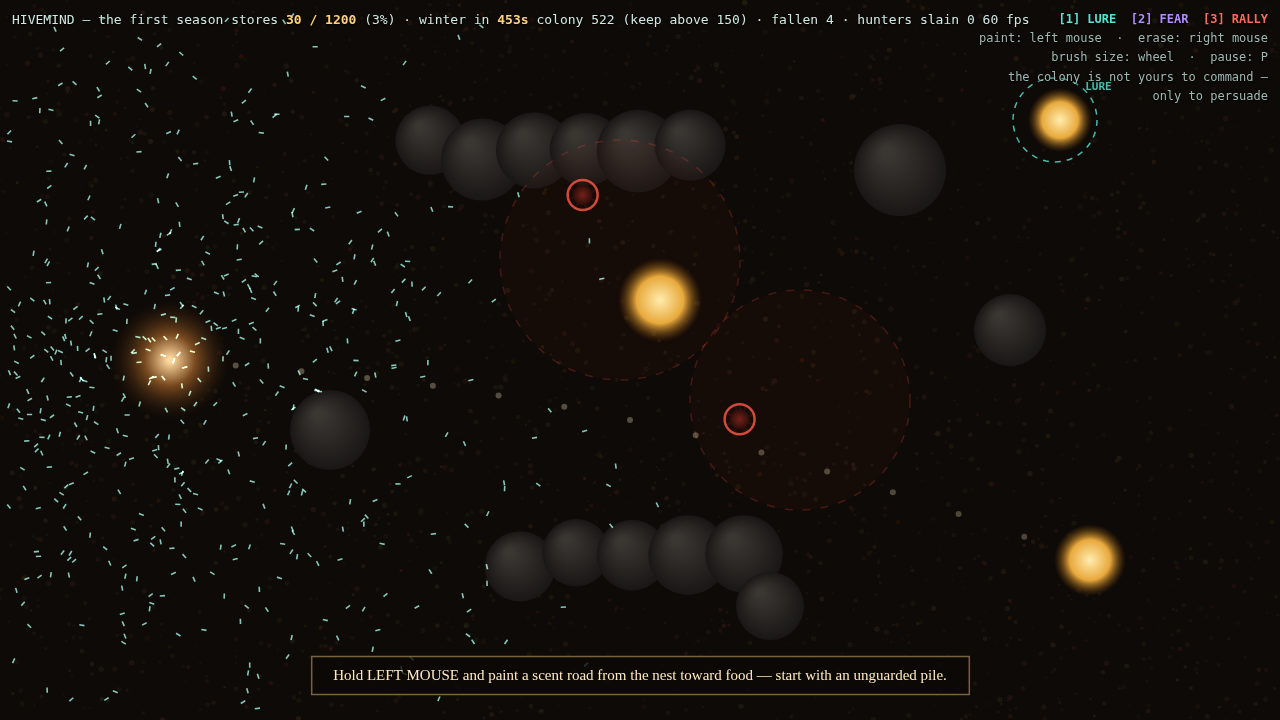
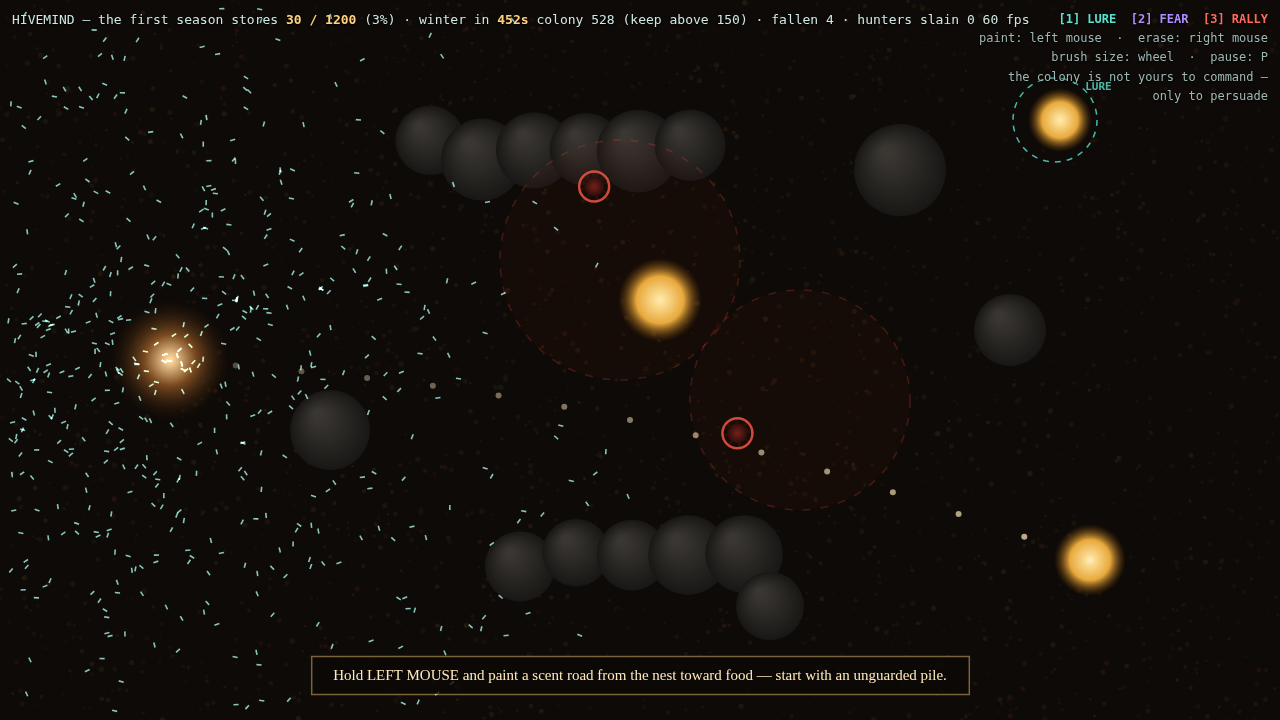
Stage 6 Loop 5b: procedural WebAudio (licence-clean, gated)
The audio half of the juice pass — 100% synthesized (no sample assets):
harvest tick, hunter-death crunch+drop, win/lose end sting. The AudioContext
is built ONLY on a real click gesture, so headless/bot runs stay silent and
untouched; audioTick only READS sim counters, and every call is wrapped so a
missing/suspended context can never break the loop. Verified: seed-7 commander
still WINS t=305 with no pageerrors; click test green; dist (55KB) wins from
file://. Unheard here (no audio device) — runs-clean is VERIFIED FACT,
pleasant is ASSUMPTION.

diff --git a/game/js/audio.js b/game/js/audio.js
@@ -1,0 +1,86 @@
+// Procedural audio — 100% synthesized (zero sample assets, so licence-clean).
+// Deliberately minimal and gated: the AudioContext is created ONLY on a real
+// user gesture (the click-to-begin), so headless/bot runs — which never click —
+// stay silent and unaffected, and the sim itself is never touched (this module
+// only READS sim counters each frame). All calls are wrapped so a missing or
+// suspended AudioContext can never break the game loop.
+export function makeAudio() {
+  return {
+    ctx: null, master: null, on: true,
+    seenKills: 0, seenBanked: 0, lastBlip: -1, over: false,
+  };
+}
+
+// Call from a genuine user-gesture handler (mousedown). Lazily builds the
+// context the first time; resumes it if the browser suspended it.
+export function audioResume(a) {
+  try {
+    if (!a.ctx) {
+      const AC = window.AudioContext || window.webkitAudioContext;
+      if (!AC) return;
+      a.ctx = new AC();
+      a.master = a.ctx.createGain();
+      a.master.gain.value = 0.5;
+      a.master.connect(a.ctx.destination);
+    }
+    if (a.ctx.state === 'suspended') a.ctx.resume();
+  } catch (e) { a.ctx = null; }
+}
+
+// one enveloped oscillator voice
+function voice(a, { type = 'sine', f0, f1, t = 0.12, gain = 0.2, delay = 0 }) {
+  const c = a.ctx, now = c.currentTime + delay;
+  const o = c.createOscillator(), g = c.createGain();
+  o.type = type;
+  o.frequency.setValueAtTime(f0, now);
+  if (f1 && f1 !== f0) o.frequency.exponentialRampToValueAtTime(Math.max(1, f1), now + t);
+  g.gain.setValueAtTime(0.0001, now);
+  g.gain.exponentialRampToValueAtTime(gain, now + 0.008);
+  g.gain.exponentialRampToValueAtTime(0.0001, now + t);
+  o.connect(g); g.connect(a.master);
+  o.start(now); o.stop(now + t + 0.02);
+}
+
+// short filtered-noise burst (used for the hunter-death crunch)
+function noise(a, { t = 0.18, gain = 0.25, cutoff = 900 }) {
+  const c = a.ctx, now = c.currentTime;
+  const n = Math.floor(c.sampleRate * t);
+  const buf = c.createBuffer(1, n, c.sampleRate);
+  const d = buf.getChannelData(0);
+  let s = 1234567;                       // deterministic PRNG (no Math.random)
+  for (let i = 0; i < n; i++) { s = (s * 16807) % 2147483647; d[i] = (s / 1073741823 - 1) * (1 - i / n); }
+  const src = c.createBufferSource(); src.buffer = buf;
+  const lp = c.createBiquadFilter(); lp.type = 'lowpass'; lp.frequency.value = cutoff;
+  const g = c.createGain(); g.gain.value = gain;
+  src.connect(lp); lp.connect(g); g.connect(a.master);
+  src.start(now);
+}
+
+// Called each frame with the current sim + scenario. Compares against what it
+// last saw and voices the deltas: harvest ticks, hunter deaths, win/lose sting.
+export function audioTick(a, sim, sc) {
+  if (!a.ctx || !a.on) return;
+  try {
+    // hunter slain — low crunch + a satisfied drop
+    if (sim.spidersKilled > a.seenKills) {
+      a.seenKills = sim.spidersKilled;
+      noise(a, { t: 0.2, gain: 0.3, cutoff: 1100 });
+      voice(a, { type: 'triangle', f0: 220, f1: 90, t: 0.22, gain: 0.22 });
+    }
+    // harvest — a soft high tick, throttled to every ~45 stores so it pulses
+    // with the economy rather than machine-gunning
+    if (sim.foodBanked - a.seenBanked >= 45) {
+      a.seenBanked = sim.foodBanked;
+      if (sim.time - a.lastBlip > 0.05) {
+        a.lastBlip = sim.time;
+        voice(a, { type: 'sine', f0: 880, f1: 1180, t: 0.07, gain: 0.10 });
+      }
+    }
+    // end sting — rising major triad on a win, falling on a loss (once)
+    if (sc.over && !a.over) {
+      a.over = true;
+      const notes = sc.won ? [523, 659, 784, 1047] : [440, 349, 262];
+      notes.forEach((f, i) => voice(a, { type: 'triangle', f0: f, t: 0.35, gain: 0.24, delay: i * 0.13 }));
+    }
+  } catch (e) { /* audio must never break the loop */ }
+}

diff --git a/game/js/main.js b/game/js/main.js
@@ -6,6 +6,7 @@ import { makeAutoPlayer } from './auto.js';
 import { SCENARIO, makeScenarioState, updateScenario } from './scenario.js';
 import { makeOnboarding, updateOnboarding, drawOnboarding } from './onboarding.js';
 import { nextCertifiedSeed } from './seeds.js';
+import { makeAudio, audioResume, audioTick } from './audio.js';
 
 const q = new URLSearchParams(location.search);
 const seed = parseInt(q.get('seed') || '7', 10);
@@ -21,6 +22,7 @@ const R = makeRenderer(canvas);
 const auto = autoName ? makeAutoPlayer(autoName) : null;
 const sc = makeScenarioState();
 const ob = makeOnboarding();
+const audio = makeAudio();
 
 const ui = { tool: 0, brush: 42, mx: 0, my: 0, painting: 0, showBrush: !auto, paused: false, started: !!(auto || fast) };
 const PLAYER_FIELDS = [F.LURE, F.FEAR, F.WAR];
@@ -32,6 +34,7 @@ function canvasPos(e) {
 }
 canvas.addEventListener('mousemove', (e) => { [ui.mx, ui.my] = canvasPos(e); });
 canvas.addEventListener('mousedown', (e) => {
+  audioResume(audio);              // create/resume AudioContext on a real gesture
   if (!ui.started) { ui.started = true; return; }
   ui.painting = e.button === 2 ? 2 : 1;
 });
@@ -99,6 +102,7 @@ function frame() {
     const n = fast > 0 ? fast : 1;
     for (let i = 0; i < n; i++) { tickOnce(); if (sc.over || window.__DONE) break; }
   }
+  if (ui.started) audioTick(audio, sim, sc);   // voices sim deltas; no-op until a click builds the ctx
   draw(R, sim, ui);
   if (!ui.started) drawTitle(R.ctx);
   if (!auto && !sc.over && ui.started) drawOnboarding(R.ctx, ob, sim, W, H);